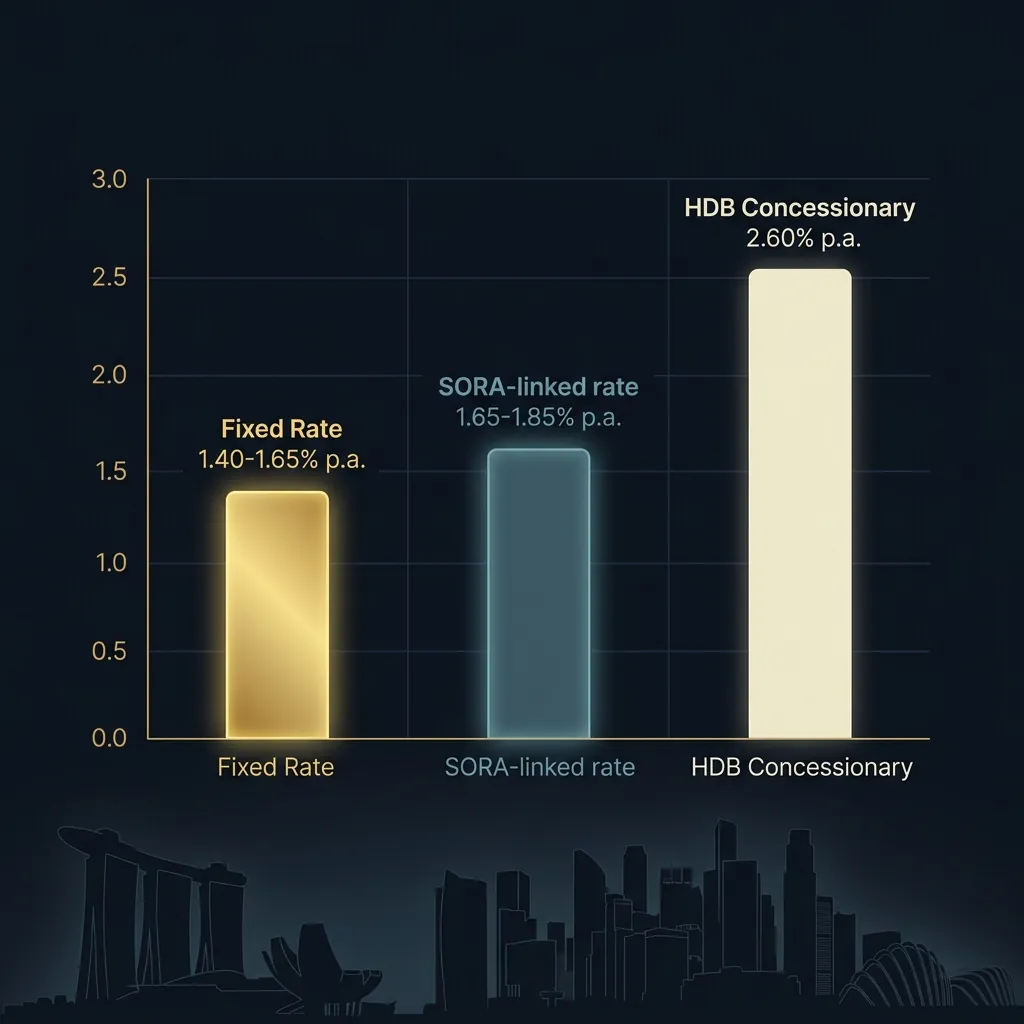
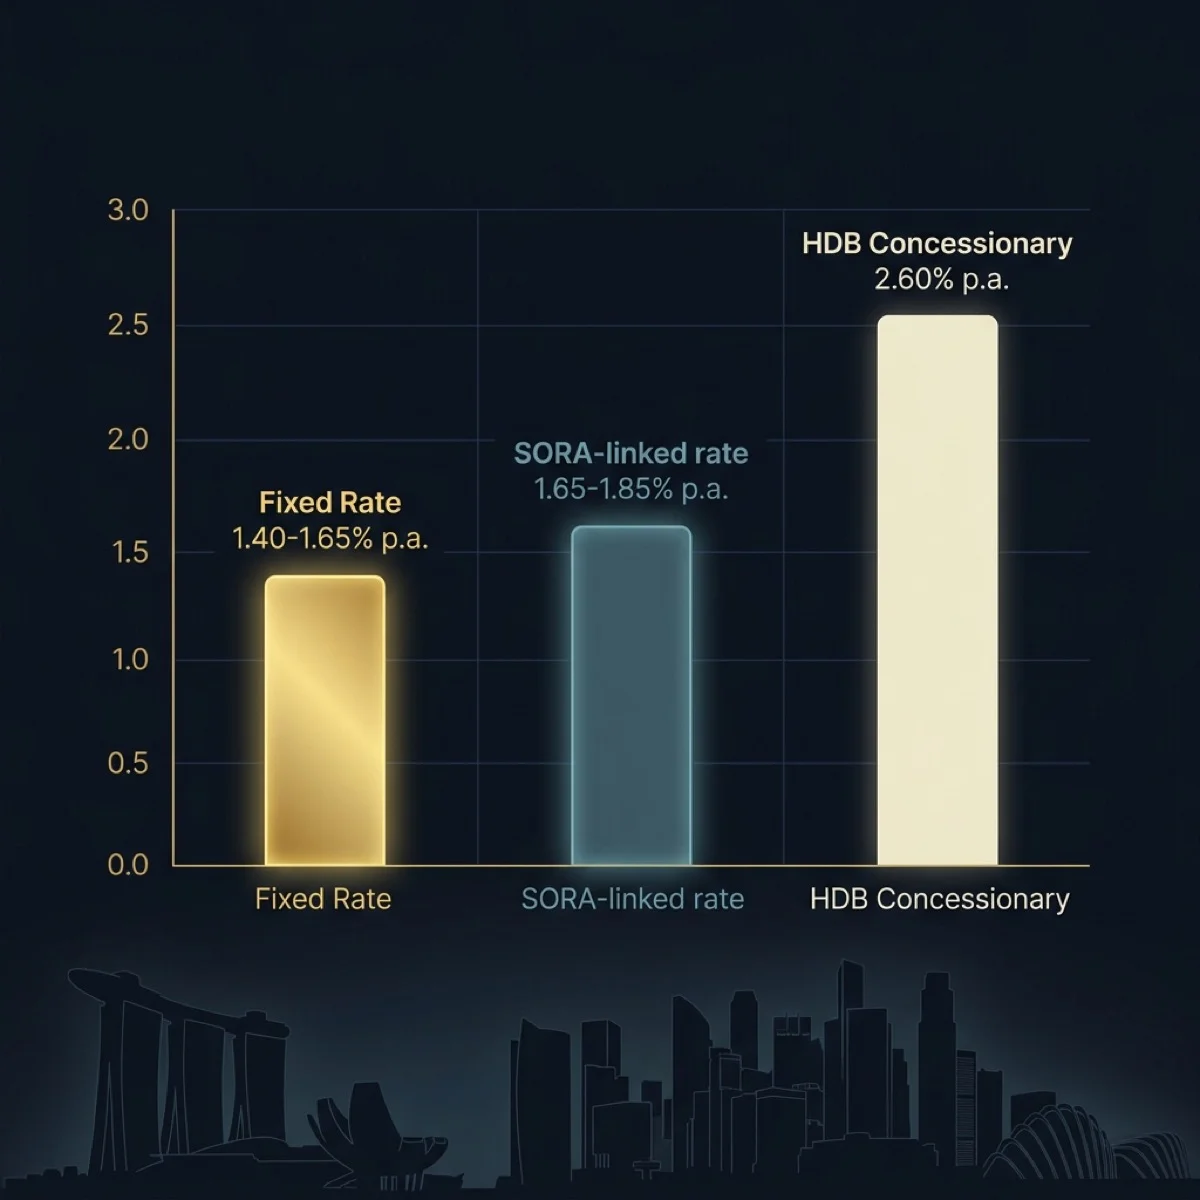
seo(blog/home-loan-rates): tighten title, enrich schema, fix heading hierarchy
- Trim <title> 70→58 chars (avoid SERP truncation)
- Add og:site_name, og:locale, og:image:width/height, article:published_time, article:modified_time, article:author, article:section
- Unify og:image with Article schema image (hero.webp)
- Article JSON-LD: add inLanguage, articleSection, wordCount; image as array (webp+png) at 1200×1200
- Upscale 4 hero/thumb images 1024→1200 (Article rich result + Top Stories carousel eligibility)
- Swap H4 → H3 for Fixed Rate / SORA-Linked (no more H2→H4 jump); add .rate-card h3 CSS overrides so visual unchanged
- Update <img> width/height attrs to 1200

diff --git a/blog/home-loan-rates-singapore/index.html b/blog/home-loan-rates-singapore/index.html
@@ -36,7 +36,7 @@
   </script>
   <meta charset="UTF-8">
   <meta name="viewport" content="width=device-width, initial-scale=1.0">
-  <title>Best Home Loan Rates Singapore (2026): Fixed vs SORA Compared | Nexus</title>
+  <title>Best Home Loan Rates Singapore 2026: Fixed vs SORA | Nexus</title>
   <meta name="description" content="Best home loan rates Singapore 2026: fixed from 1.40% p.a., SORA-linked from ~1.25% p.a. effective. Compare 16+ MAS-regulated banks. Free, zero fees.">
   <meta name="keywords" content="home loan rates Singapore, best home loan rates Singapore 2026, cheapest home loan interest rate Singapore, fixed rate home loan Singapore, SORA home loan rate, home loan interest rate comparison Singapore">
   <link rel="icon" type="image/x-icon" href="/favicon.ico">
@@ -44,10 +44,18 @@
   <meta property="og:description" content="Fixed rates from 1.40% p.a. and SORA-linked from ~1.25% p.a. effective. Compare the best home loan rates in Singapore for 2026 across 16+ banks, and how to secure one.">
   <meta property="og:type" content="article">
   <meta property="og:url" content="https://nexusmortgage.sg/blog/home-loan-rates-singapore/">
-  <meta property="og:image" content="https://nexusmortgage.sg/blog/blog-images/home-loan-rates-thumb.png">
+  <meta property="og:image" content="https://nexusmortgage.sg/blog/blog-images/home-loan-rates-hero.webp">
   <meta property="og:image:alt" content="Best Home Loan Rates Singapore 2026 — Fixed vs SORA Compared">
+  <meta property="og:image:width" content="1200">
+  <meta property="og:image:height" content="1200">
+  <meta property="og:site_name" content="Nexus Mortgage SG">
+  <meta property="og:locale" content="en_SG">
+  <meta property="article:published_time" content="2026-04-12T00:00:00+08:00">
+  <meta property="article:modified_time" content="2026-05-10T00:00:00+08:00">
+  <meta property="article:author" content="Dan Ler">
+  <meta property="article:section" content="Home Loans">
   <link rel="canonical" href="https://nexusmortgage.sg/blog/home-loan-rates-singapore/">
-  <script type="application/ld+json">{"@context":"https://schema.org","@type":"Article","headline":"Best Home Loan Rates Singapore 2026: Fixed vs SORA Compared","datePublished":"2026-04-12","image":{"@type":"ImageObject","url":"https://nexusmortgage.sg/blog/blog-images/home-loan-rates-hero.webp","width":1024,"height":1024},"description":"Best home loan rates Singapore 2026: fixed from 1.40% p.a., SORA-linked from ~1.25% p.a. effective. Compare 16+ MAS-regulated lenders side by side, free.","dateModified":"2026-05-10","mainEntityOfPage":{"@type":"WebPage","@id":"https://nexusmortgage.sg/blog/home-loan-rates-singapore/"},"author":{"@id":"https://nexusmortgage.sg/#dan-ler","@type":"Person","name":"Dan Ler","url":"https://nexusmortgage.sg","image":"https://nexusmortgage.sg/dan-ler.webp","jobTitle":"Mortgage Advisor","worksFor":{"@type":"Organization","name":"Nexus Mortgage SG","url":"https://nexusmortgage.sg"}},"publisher":{"@id":"https://nexusmortgage.sg/#organization"},"keywords":"best home loan rates Singapore 2026, fixed rate vs SORA, 3M Compounded SORA, lock-in period, MAS Notice 645, mortgage broker Singapore, 16 banks comparison"}</script>
+  <script type="application/ld+json">{"@context":"https://schema.org","@type":"Article","headline":"Best Home Loan Rates Singapore 2026: Fixed vs SORA Compared","datePublished":"2026-04-12","dateModified":"2026-05-10","inLanguage":"en-SG","articleSection":"Home Loans","wordCount":1943,"image":[{"@type":"ImageObject","url":"https://nexusmortgage.sg/blog/blog-images/home-loan-rates-hero.webp","width":1200,"height":1200},{"@type":"ImageObject","url":"https://nexusmortgage.sg/blog/blog-images/home-loan-rates-hero.png","width":1200,"height":1200}],"description":"Best home loan rates Singapore 2026: fixed from 1.40% p.a., SORA-linked from ~1.25% p.a. effective. Compare 16+ MAS-regulated lenders side by side, free.","mainEntityOfPage":{"@type":"WebPage","@id":"https://nexusmortgage.sg/blog/home-loan-rates-singapore/"},"author":{"@id":"https://nexusmortgage.sg/#dan-ler","@type":"Person","name":"Dan Ler","url":"https://nexusmortgage.sg","image":"https://nexusmortgage.sg/dan-ler.webp","jobTitle":"Mortgage Advisor","worksFor":{"@type":"Organization","name":"Nexus Mortgage SG","url":"https://nexusmortgage.sg"}},"publisher":{"@id":"https://nexusmortgage.sg/#organization"},"keywords":"best home loan rates Singapore 2026, fixed rate vs SORA, 3M Compounded SORA, lock-in period, MAS Notice 645, mortgage broker Singapore, 16 banks comparison"}</script>
   <script type="application/ld+json">{"@context":"https://schema.org","@type":"FAQPage","mainEntity":[{"@type":"Question","name":"What is the current home loan interest rate in Singapore in 2026?","acceptedAnswer":{"@type":"Answer","text":"As of May 2026, fixed-rate home loan packages start from 1.40% p.a. for jumbo loans (typical range 1.45%–1.65% p.a. for a 2-year fixed). SORA-linked packages are competitive at roughly 1.25%–1.80% p.a. effective (3M Compounded SORA at 1.0514% plus a bank spread of 0.20%–0.75%). The fixed-vs-SORA gap is narrow in 2026."}},{"@type":"Question","name":"Which bank offers the cheapest home loan rate in Singapore?","acceptedAnswer":{"@type":"Answer","text":"No single bank consistently offers the cheapest rate — packages change monthly and vary by loan quantum, LTV, and whether you take HDB or private property financing. An independent broker compares all 16+ MAS-regulated lenders simultaneously and identifies the cheapest package for your profile at no cost to you."}},{"@type":"Question","name":"Is fixed or floating rate better for a home loan in Singapore in 2026?","acceptedAnswer":{"@type":"Answer","text":"In 2026 the gap is narrow. Fixed packages run 1.40%–2.00% p.a.; SORA-linked sits around 1.25%–1.80% p.a. effective. Fixed gives certainty; SORA gives flexibility and benefits if SORA falls further. Jumbo loans (S$1.5M+) often get the tightest SORA spreads. The decision is about lock-in tolerance, not big cost gaps."}},{"@type":"Question","name":"Does using a mortgage broker get me a better home loan rate?","acceptedAnswer":{"@type":"Answer","text":"A broker accesses all 16+ MAS-regulated lenders simultaneously and negotiates on volume. Banks often release broker-exclusive rate promotions and legal fee subsidies not advertised to walk-in customers. The service is free — Nexus is paid by the bank on disbursement."}}]}</script>
   <script type="application/ld+json">{"@context":"https://schema.org","@type":"BreadcrumbList","itemListElement":[{"@type":"ListItem","position":1,"name":"Home","item":"https://nexusmortgage.sg/"},{"@type":"ListItem","position":2,"name":"Blog","item":"https://nexusmortgage.sg/blog/"},{"@type":"ListItem","position":3,"name":"Best Home Loan Rates Singapore 2026","item":"https://nexusmortgage.sg/blog/home-loan-rates-singapore/"}]}</script>
   <!-- Self-hosted fonts (woff2 latin subset). Drops Google Fonts blocking chain. -->
@@ -90,7 +98,7 @@
     .verdict-list li::before{content:'\2192';color:#c4973b;font-weight:600;margin-top:.05rem;flex-shrink:0}
     .rate-cards{display:grid;grid-template-columns:1fr 1fr;gap:1rem;margin:2rem 0}
     .rate-card{background:rgba(255,255,255,.03);border:1px solid rgba(196,151,59,.18);border-radius:10px;padding:1.3rem 1.4rem}
-    .rate-card h4{font-family:'Cormorant Garamond',serif;font-size:1.1rem;font-weight:600;color:#faf7f2;margin-bottom:.75rem}
+    .rate-card h3{font-family:'Cormorant Garamond',serif;font-size:1.1rem;font-weight:600;color:#faf7f2;margin:0 0 .75rem;text-transform:none;letter-spacing:normal}
     .rate-card .r-line{display:flex;justify-content:space-between;font-size:.82rem;color:rgba(232,227,218,.65);padding:.28rem 0;border-bottom:1px solid rgba(255,255,255,.05)}
     .rate-card .r-line:last-child{border-bottom:none}
     .rate-card .r-line strong{color:#c4973b}
@@ -200,7 +208,7 @@
 
   <p style="font-size:1.1rem;color:rgba(250,247,242,.65);line-height:1.7;margin-bottom:2rem;">In May 2026, fixed-rate home loan packages in Singapore start from <strong style="color:#faf7f2">1.40% p.a.</strong> for jumbo loans, with typical 2-year fixed rates between 1.45% and 1.65% p.a. SORA-linked packages now sit at roughly 1.25%&ndash;1.80% p.a. effective. The fixed-vs-SORA gap is the narrowest it has been since 2022. Here is what every Singapore borrower needs to know about locking in the right package right now.</p>
 
-  <img src="../blog-images/home-loan-rates-hero.webp" alt="Singapore home loan interest rate comparison chart for 2026 — fixed vs SORA rates across major banks" class="hero-img" width="1024" height="1024" fetchpriority="high">
+  <img src="../blog-images/home-loan-rates-hero.webp" alt="Singapore home loan interest rate comparison chart for 2026 — fixed vs SORA rates across major banks" class="hero-img" width="1200" height="1200" fetchpriority="high">
 
   <div class="toc">
     <div class="toc-title">In this article</div>
@@ -294,14 +302,14 @@
   <div class="rate-cards">
     <div class="rate-card winner">
       <span class="winner-badge">Competitive Right Now</span>
-      <h4>Fixed Rate</h4>
+      <h3>Fixed Rate</h3>
       <div class="r-line"><span>2-year rate</span><strong>1.45%&ndash;1.65%</strong></div>
       <div class="r-line"><span>3-year rate</span><strong>1.55%&ndash;1.80%</strong></div>
       <div class="r-line"><span>Rate certainty</span><strong>Full</strong></div>
       <div class="r-line"><span>Best for</span><strong>Certainty &amp; budgeting</strong></div>
     </div>
     <div class="rate-card">
-      <h4>SORA-Linked</h4>
+      <h3>SORA-Linked</h3>
       <div class="r-line"><span>3M SORA (<span data-sora-month>May 2026</span>)</span><strong><span data-sora-3m>1.0514</span>%</strong></div>
       <div class="r-line"><span>Bank spread</span><strong>+0.20%&ndash;0.75%</strong></div>
       <div class="r-line"><span>Effective rate</span><strong>~1.25%&ndash;1.80%</strong></div>
